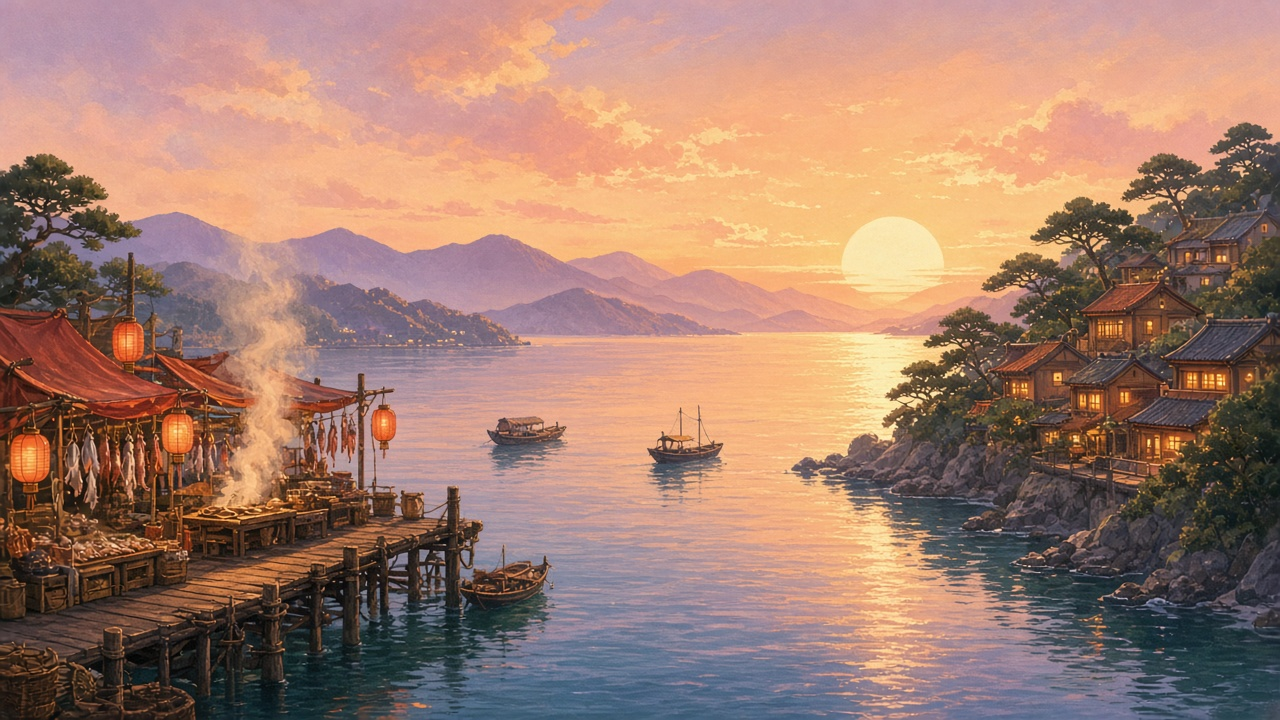
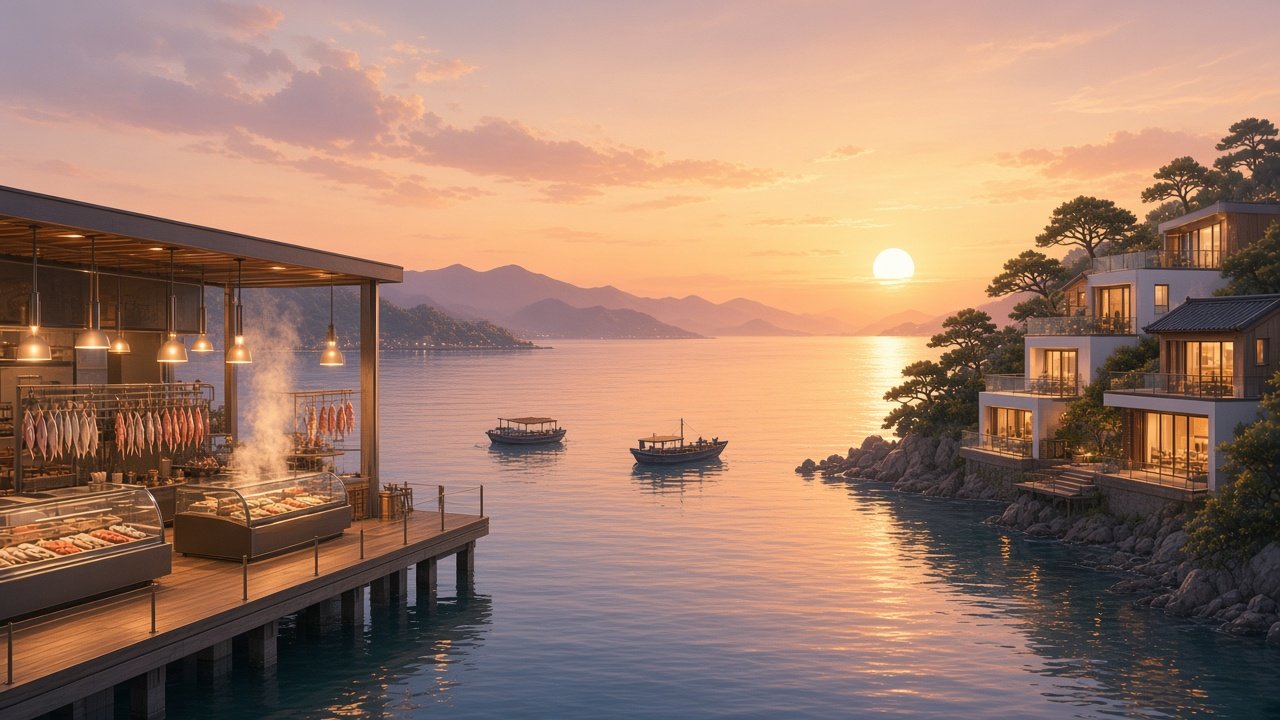
港口背景改成现代海边鱼市：钢棚灯塔白房子
去掉古镇瓦房和红灯笼，早市/黄昏/夜港三套都换成当代码头。

diff --git a/tools/first-run-preview/harborLooks.js b/tools/first-run-preview/harborLooks.js
@@ -4,9 +4,9 @@
  */
 
 export const HARBOR_LOOKS = [
-  { id: "morning", name: "早市码头", blurb: "晴海、晒鱼、白墙村", src: "./looks/morning.jpg" },
-  { id: "dusk", name: "黄昏渔村", blurb: "晚霞、灯笼、炊烟", src: "./looks/dusk.jpg" },
-  { id: "night", name: "夜灯鱼市", blurb: "月牙、灯火、倒影", src: "./looks/night.jpg" },
+  { id: "morning", name: "早市码头", blurb: "钢棚、灯塔、白房子", src: "./looks/morning.jpg" },
+  { id: "dusk", name: "黄昏海港", blurb: "玻璃窗、吊灯、日落", src: "./looks/dusk.jpg" },
+  { id: "night", name: "夜港鱼市", blurb: "灯带、冰柜、夜港", src: "./looks/night.jpg" },
 ];
 
 export const DEFAULT_HARBOR_LOOK = "morning";

diff --git a/tools/first-run-preview/index.html b/tools/first-run-preview/index.html
@@ -257,7 +257,7 @@
         <div id="fx"></div>
       </div>
       <div class="look-picker" id="look-picker" hidden>
-        <div class="look-picker-label">港口背景（重画的渔市插画）· 点一张看看</div>
+        <div class="look-picker-label">港口背景（现代海边鱼市）· 点一张看看</div>
         <div class="look-row" id="look-row"></div>
       </div>
     </div>
